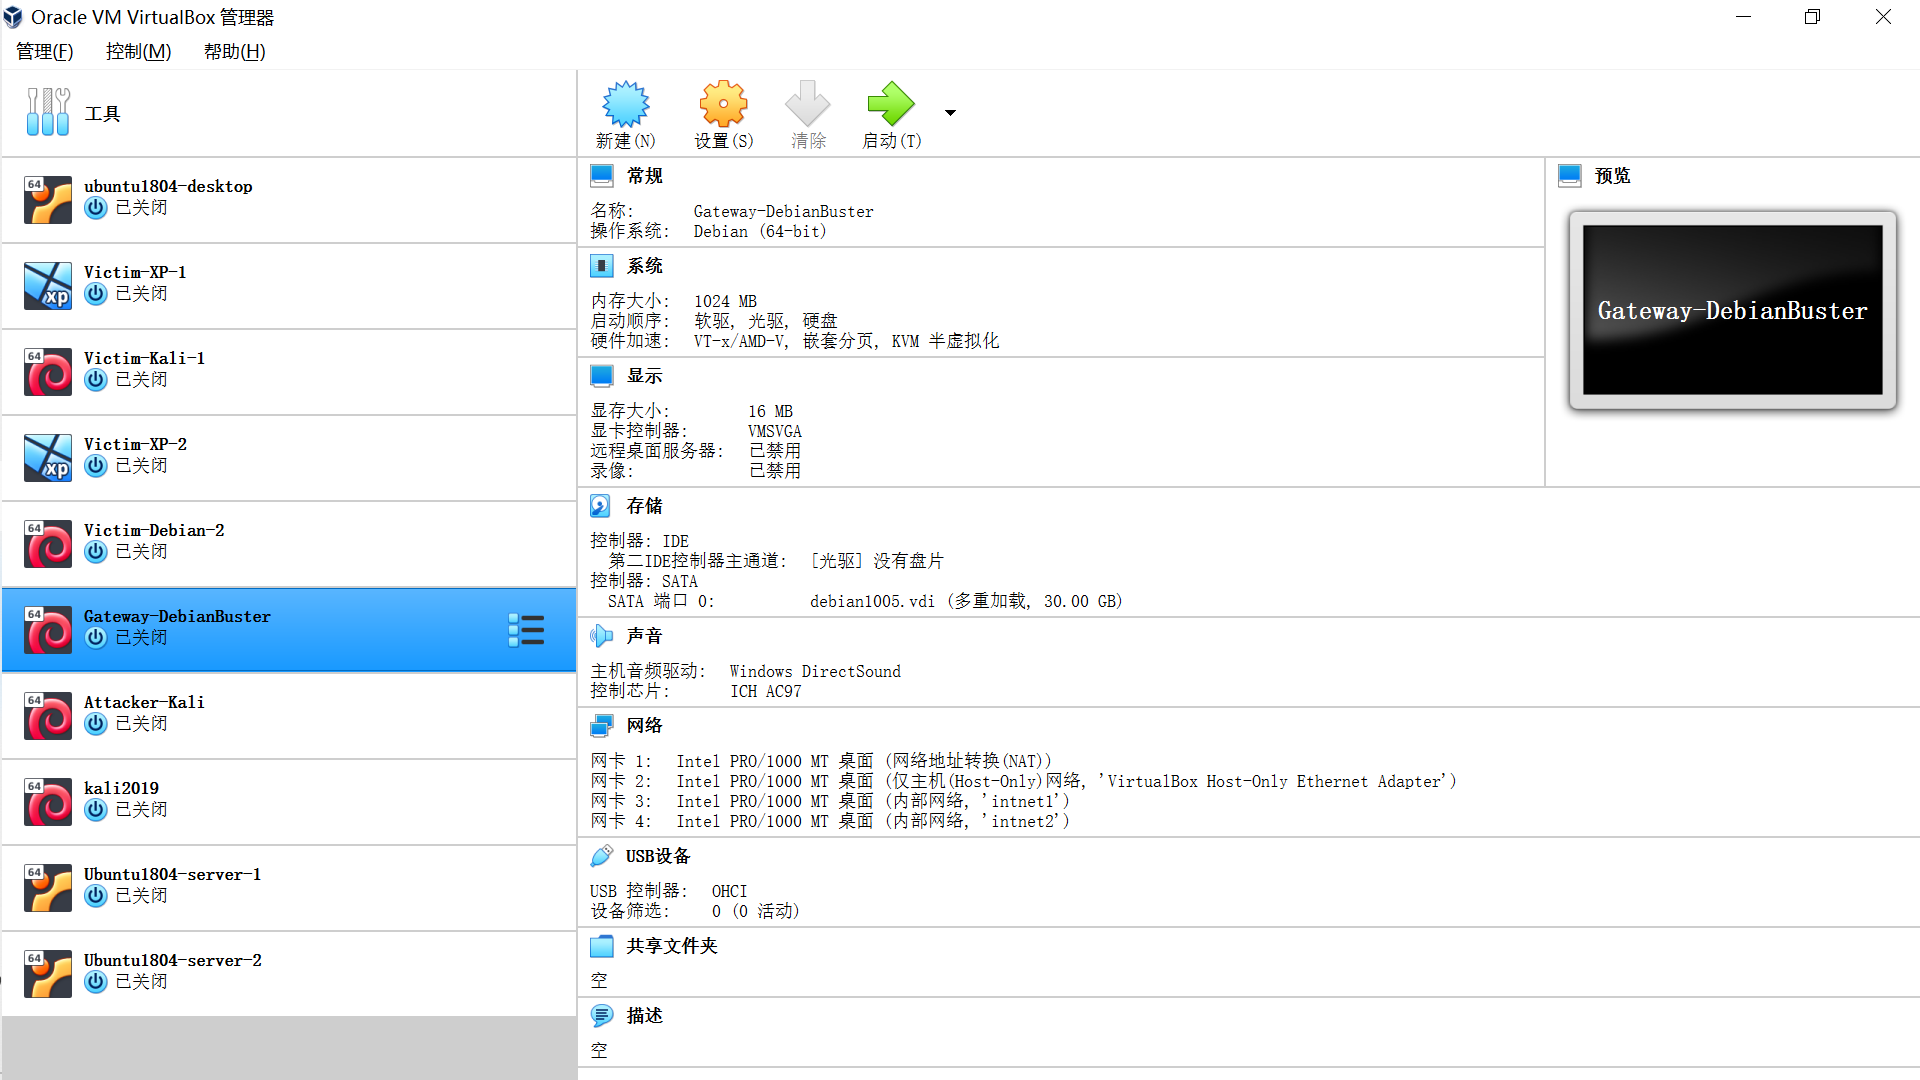
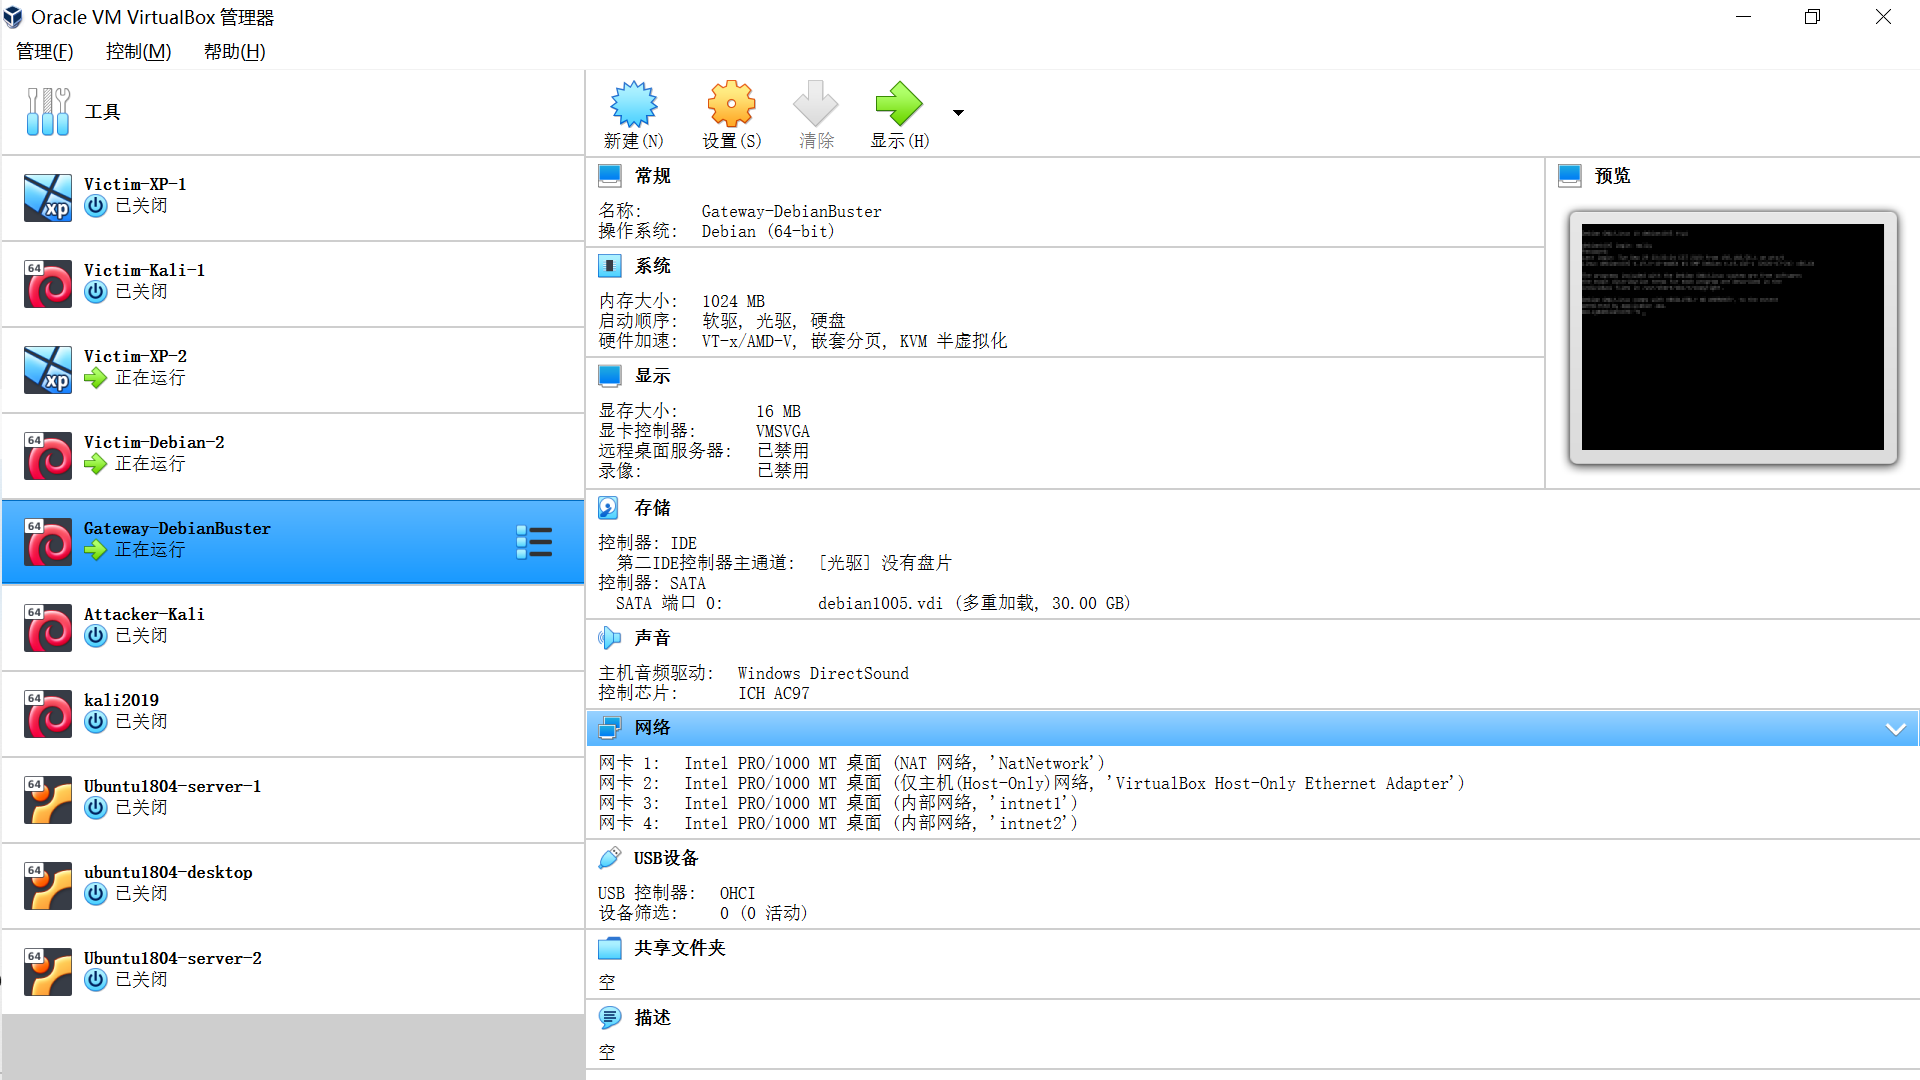
基本完成实验
20200930

Changed region(s): [[0.0, 0.0611, 1.0, 1.0], [0.8125, 0.1833, 0.9688, 0.3361]]

diff --git a/chap0x01/chap0x01.md b/chap0x01/chap0x01.md
@@ -17,68 +17,209 @@
 
 - 虚拟硬盘配置成多重加载，效果如下图所示；
 
-  ![img](\img\vb-multi-attach.png)
+  ![img](/img/vb-multi-attach.png)
 
 - 搭建满足如下拓扑图所示的虚拟机网络拓扑；
 
-![img](\img\vb-exp-layout.png)
+  ![img](/img/vb-exp-layout.png)
 
 > 根据实验宿主机的性能条件，可以适度精简靶机数量
 
 - 完成以下网络连通性测试；
-  - [ ] 靶机可以直接访问攻击者主机
-  - [ ] 攻击者主机无法直接访问靶机
-  - [ ] 网关可以直接访问攻击者主机和靶机
-  - [ ] 靶机的所有对外上下行流量必须经过网关
-  - [ ] 所有节点均可以访问互联网
+  - [x] 靶机可以直接访问攻击者主机
+  - [x] 攻击者主机无法直接访问靶机
+  - [x] 网关可以直接访问攻击者主机和靶机
+  - [x] 靶机的所有对外上下行流量必须经过网关
+  - [x] 所有节点均可以访问互联网
 
 ## 实验步骤
 
-### 1. 创建安装虚拟机
+### 1、创建安装虚拟机
+
+基本步骤和上学期《linux网络管理》课程第一次安装`ubuntu18.04`的步骤一致，一些差异和要注意的点在下面列出。
 
 * 安装`windows xp-sp3`
 
   * 创建虚拟介质的时候选择`vmdk`，否则可能创建不成功。
-
 * 安装`Debian Buster`
 
   * 在安装过程中选择「要安装的软件」时，不需要选择任何图形化界面的包，只需要安装一个 OpenSSH Server 和 standard system utilities。
 
   * 安装过程选择国内源，否则下载软件的速度很慢。
-
 * 安装`Kali`
+  * 新建虚拟机选择版本时没有`kali`选项，选择`Debian`。
 
-### 2. 虚拟硬盘配置成多重加载并创建拓扑图里用到的机器
+### 2、虚拟硬盘配置成多重加载并创建拓扑图里用到的机器
 
-* 设置多重加载
+* 虚拟介质设置成`多重加载`
 
-  ![image-20200922095552479](\img\多重加载虚拟硬盘.png)
+  ![image-20200922095552479](/img/多重加载虚拟硬盘.png)
 
-* 创建多台机器，选择`已有的虚拟硬盘`，从多重加载的虚拟硬盘创建。
+* 创建多台机器，选择`已有的虚拟硬盘`，从多重加载的虚拟硬盘创建
 
-  ![image-20200922095851653](\img\拓扑图机器.png)
+  ![image-20200922095851653](/img/拓扑图机器.png)
 
-  ![image-20200922100206746](\img\多台主机详细设置.png)
+  ![image-20200922100206746](/img/多台主机详细设置.png)
 
-### 3. 配置网关
+### 3、配置网关主机
 
-* 配置网关主机的网络
+#### 3.1配置网关主机的网卡
 
-  ![image-20200929103503660](img\网关网络设置.png)
+* NET网络
+* Host-Only网络
+* 内部网络（intnet1)
+* 内部网络（intnet2)
 
-* 修改`/etc/network/interfaces`，使用命令`/etc/init.d/networking restart`重新启动网络（或者`/sbin/ifdown `和`/sbin/ifup `）先启用enp0s8，方便使用`ssh`连接网关主机
+![image-20200930094529828](/img/网关网络设置.png)
 
-* 粘贴`etc/network/interfaces`配置文件，重新启动网卡
+#### 3.2配置网关转发规则
 
-  ![image-20200929115353311](\img\etc-network-interfaces.png)
+* 修改`/etc/network/interfaces`，使用命令`/etc/init.d/networking restart`重新启动网络（或者使用`/sbin/ifdown `和`/sbin/ifup `）。先启用enp0s8，方便使用`ssh`连接网关主机。
 
-* 配置好的网关`ip`
+* 修改`etc/network/interfaces`配置文件，重新启动网卡（`enp0s3`, `enp0s8`, `enp0s9`, `enp0s10`）
 
-  ![image-20200929115248239](\img\网关ip.png)
+  ![image-20200929115353311](/img/etc-network-interfaces.png)
 
-### 4、配置`intnet1`
+* 配置好的网关网络详细信息如下
 
+  ![image-20200929115248239](/img/网关ip.png)
 
+#### 3.3配置`dnsmasq`
+
+* 安装`dnsmasq`：`apt-get install dnsmasq`
+
+* 添加配置文件
+
+  ```
+  # /etc/dnsmasq.d/gw-enp010.conf
+  interface=enp0s10
+  dhcp-range=172.16.222.100,172.16.222.150,240h
+  ```
+
+  ```
+  # /etc/dnsmasq.d/gw-enp09.conf
+  interface=enp0s9
+  dhcp-range=172.16.111.100,172.16.111.150,240h
+  ```
+
+* 修改主配置文件
+
+  ```
+  # /etc/dnsmasq.conf
+  # diff dnsmasq.conf dnsmasq.conf.bak
+  
+  661,662c661
+  < log-queries
+  < log-facility=/var/log/dnsmasq.log
+  ---
+  > #log-queries
+  665c664
+  < log-dhcp
+  ---
+  > #log-dhcp
+  ```
+
+### 4、配置`intnet1`里的靶机
+
+#### 4.1Victim-XP-1
+
+* 设置网络->`内部网络`->`intnet1` （控制芯片没有更改也可以在虚拟机里看到网卡，所以没有修改控制芯片）
+
+  ![image-20200930095317562](/img/xp-1-网络设置.png)
+
+* 因为前面已经设置了`dnsmasq`，所以自动获取正确的IP地址
+
+  ![image-20200930150822764](/img/ip-xp-1.png)
+
+#### 4.2Victim-Kali-1
+
+* 设置网络->`内部网络`->`intnet1`
+
+* IP地址
+
+  ![image-20200930152321054](/img/ip-kali-1.png)
+
+### 5、配置`intnet2`里的靶机
+
+#### 5.1Victim-XP-2
+
+* 设置网络->`内部网络`->`intnet2`
+
+* IP地址
+
+  ![image-20200930151844727](/img/ip-xp-2.png)
+
+#### 5.2Victim-DEbian-2
+
+* 设置网络->`内部网络`->`intnet2`
+
+* IP地址
+
+  ![image-20200930150932230](/img/ip-debian-2.png)
+
+### 6. 配置`Attacker-Kali`攻击者主机
+
+* 网络选择`net network`，名称和网关的`net network`网络的名称一致。
+
+  ![image-20200930151615790](/img/Attacker-Kali-网卡设置.png)
+
+* IP地址
+
+  ![image-20200930152426767](/img/ip-kali-attacker.png)
+
+### 7. 连通性测试
+
+![image-20200930141414783](/img/连通性测试-四台代表机器.png)
+
+#### 7.1靶机可以直接访问攻击者主机
+
+![image-20200930141608792](/img/连通性测试-靶机访问攻击者主机.png)
+
+#### 7.2攻击者主机无法直接访问靶机
+
+![image-20200930141835832](/img/连通性测试-攻击者主机无法直接访问靶机.png)
+
+#### 7.3网关可以直接访问攻击者主机和靶机
+
+![image-20200930142055009](/img/连通性测试-网关可以直接访问攻击者主机和靶机.png)
+
+#### 7.4靶机的所有对外上下行流量必须经过网关
+
+1. 预装`tmux`和`tcpdump`，方便后续查看记录
+
+2. `tcpdump -i enp0s10 -n -w 20200930.1.pcap`：将输出存入数据包`20200930.xp.1.pcap`
+
+   ![image-20200930144903327](/img/连通性测试-将记录输入数据包.png)
+
+3. 将数据包拷贝到windows主机，使用`Wireshark` 查看分析
+
+   `scp molly@192.168.56.106:/home/molly/20200930.xp.1.pcap  ./`
+
+#### 7.5所有节点均可以访问互联网
+
+![image-20200930142320335](D:\Project_NetworkSecurityProjects\2020-ns-public-yumlii33\chap0x01\img\连通性测试-所有节点均可以访问互联网.png)
+
+## Q&A
+
+* Q：`ipconfig /renew` 失败
+
+  A：http://www.imooc.com/wenda/detail/512074 ，没关固定分配。
+
+* Q：Attacker和GW的net网络都是`10.0.2.15`
+
+  ![image-20200930004926637](/img/NAT模式ip一样.png)
+
+  A：使用命令` /sbin/ifdown enp0s3 && /sbin/ifup enp0s3`后解决：
+
+  ![image-20200930004822274](/img/更新enp0s3的ip.png)
+
+* Q：靶机和Attacker都可以`ping`通网关的`Host-Only`网络的`IP`地址，老师课上实验不能`ping`通。
+
+  A：我是先配置完dnsmasq，会不会有影响？应该是因为我的网络设置的是nat网络，而不是NAT？
+
+* Q：Attacker可以ping通GW？
+
+* A：可以。
 
 ## 参考资料
 
